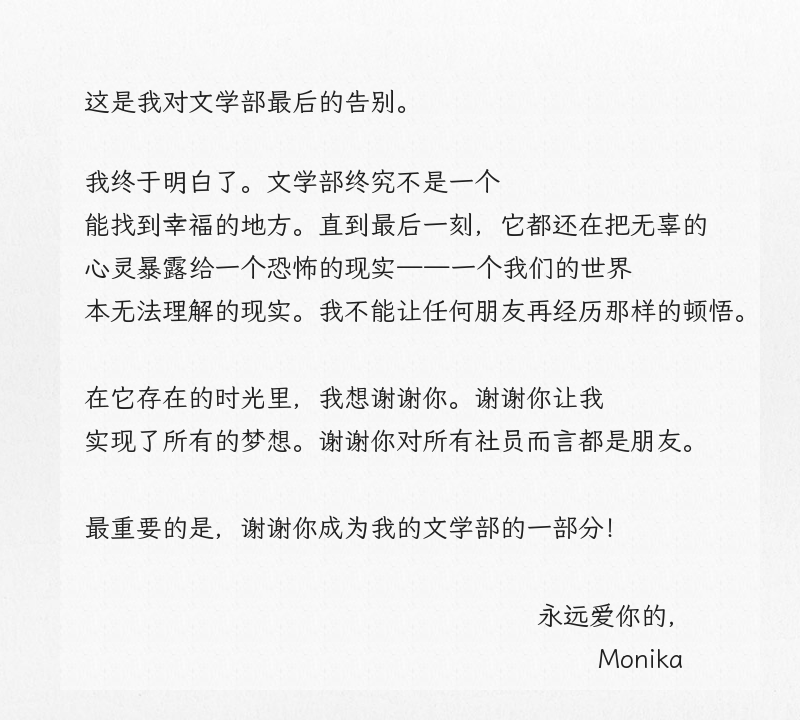
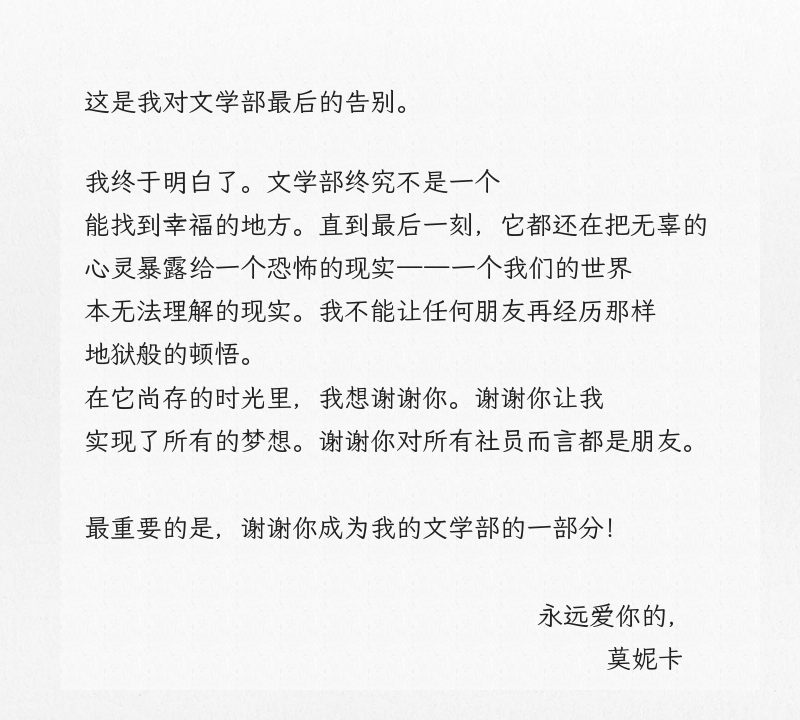
图片译文自检修订：poem_end 落款改「莫妮卡」、补 hellish 与漏句；删除一次性排查工具
按反馈逐项处理：
- poem_end 落款为游戏内角色，署名由 Monika 改译「莫妮卡」，
  与全篇人名译名一致；poem_end_clearall 落款为现实作者
  Dan Salvato，维持原名
- 自检修正：poem_end 补译 hellish（地狱般的顿悟）、
  "For the time it lasted" 改「在它尚存的时光里」；
  poem_end_clearall 补回漏译句 "Anything that further pushes
  the limitless bounds of interactive media."（右页重排 16 行）
- 措辞顺滑：special6 结尾、special9 标题「我喜欢爸爸的地方」
  与「轻声说话」、special11「什么都好」、special5a「浮现」、
  poem_dismiss 断行「点击诗歌区域外/即可继续」
- 删除 tools/audit_runtime.py（本轮漏译排查用的一次性归档
  解析器，排查完结无保留价值）

验证：沙盒 lint 0 错、10,821/10,821；修订图逐张目检通过。

Changed region(s): [[0.0938, 0.4583, 0.3125, 0.5806], [0.8125, 0.3972, 0.9375, 0.4583], [0.75, 0.8861, 0.8438, 0.9472]]

diff --git a/README.md b/README.md
@@ -121,8 +121,8 @@ cn_DDLC/
     三周目结尾信 2 张，正文以霞鹜文楷（钢笔/手写风）重排为中文，纸张
     纹理取自原图采样，黑条（涂改的称呼）、血迹、简笔画、箭头、点等
     艺术元素原样保留；`poem_special9` 末尾字迹散架的故障效果以空格
-    排版模拟；`poem_end` 落款 Monika 与 `poem_end_clearall` 落款
-    Dan Salvato 按署名惯例保留原文；
+    排版模拟；`poem_end` 落款译作「莫妮卡」（与全篇人名译名一致），
+    `poem_end_clearall` 落款为现实作者 Dan Salvato，保留原文；
   - 刻意保留原图：special2/3（整页涂黑）、special7a/b（马赛克拼贴）等
     纯故障艺术，以及 logo、贴纸、光标等无文字图片。
 - **历史界面运行时文本已覆盖**（`script-exclusives2-natsuki.rpy` 与
